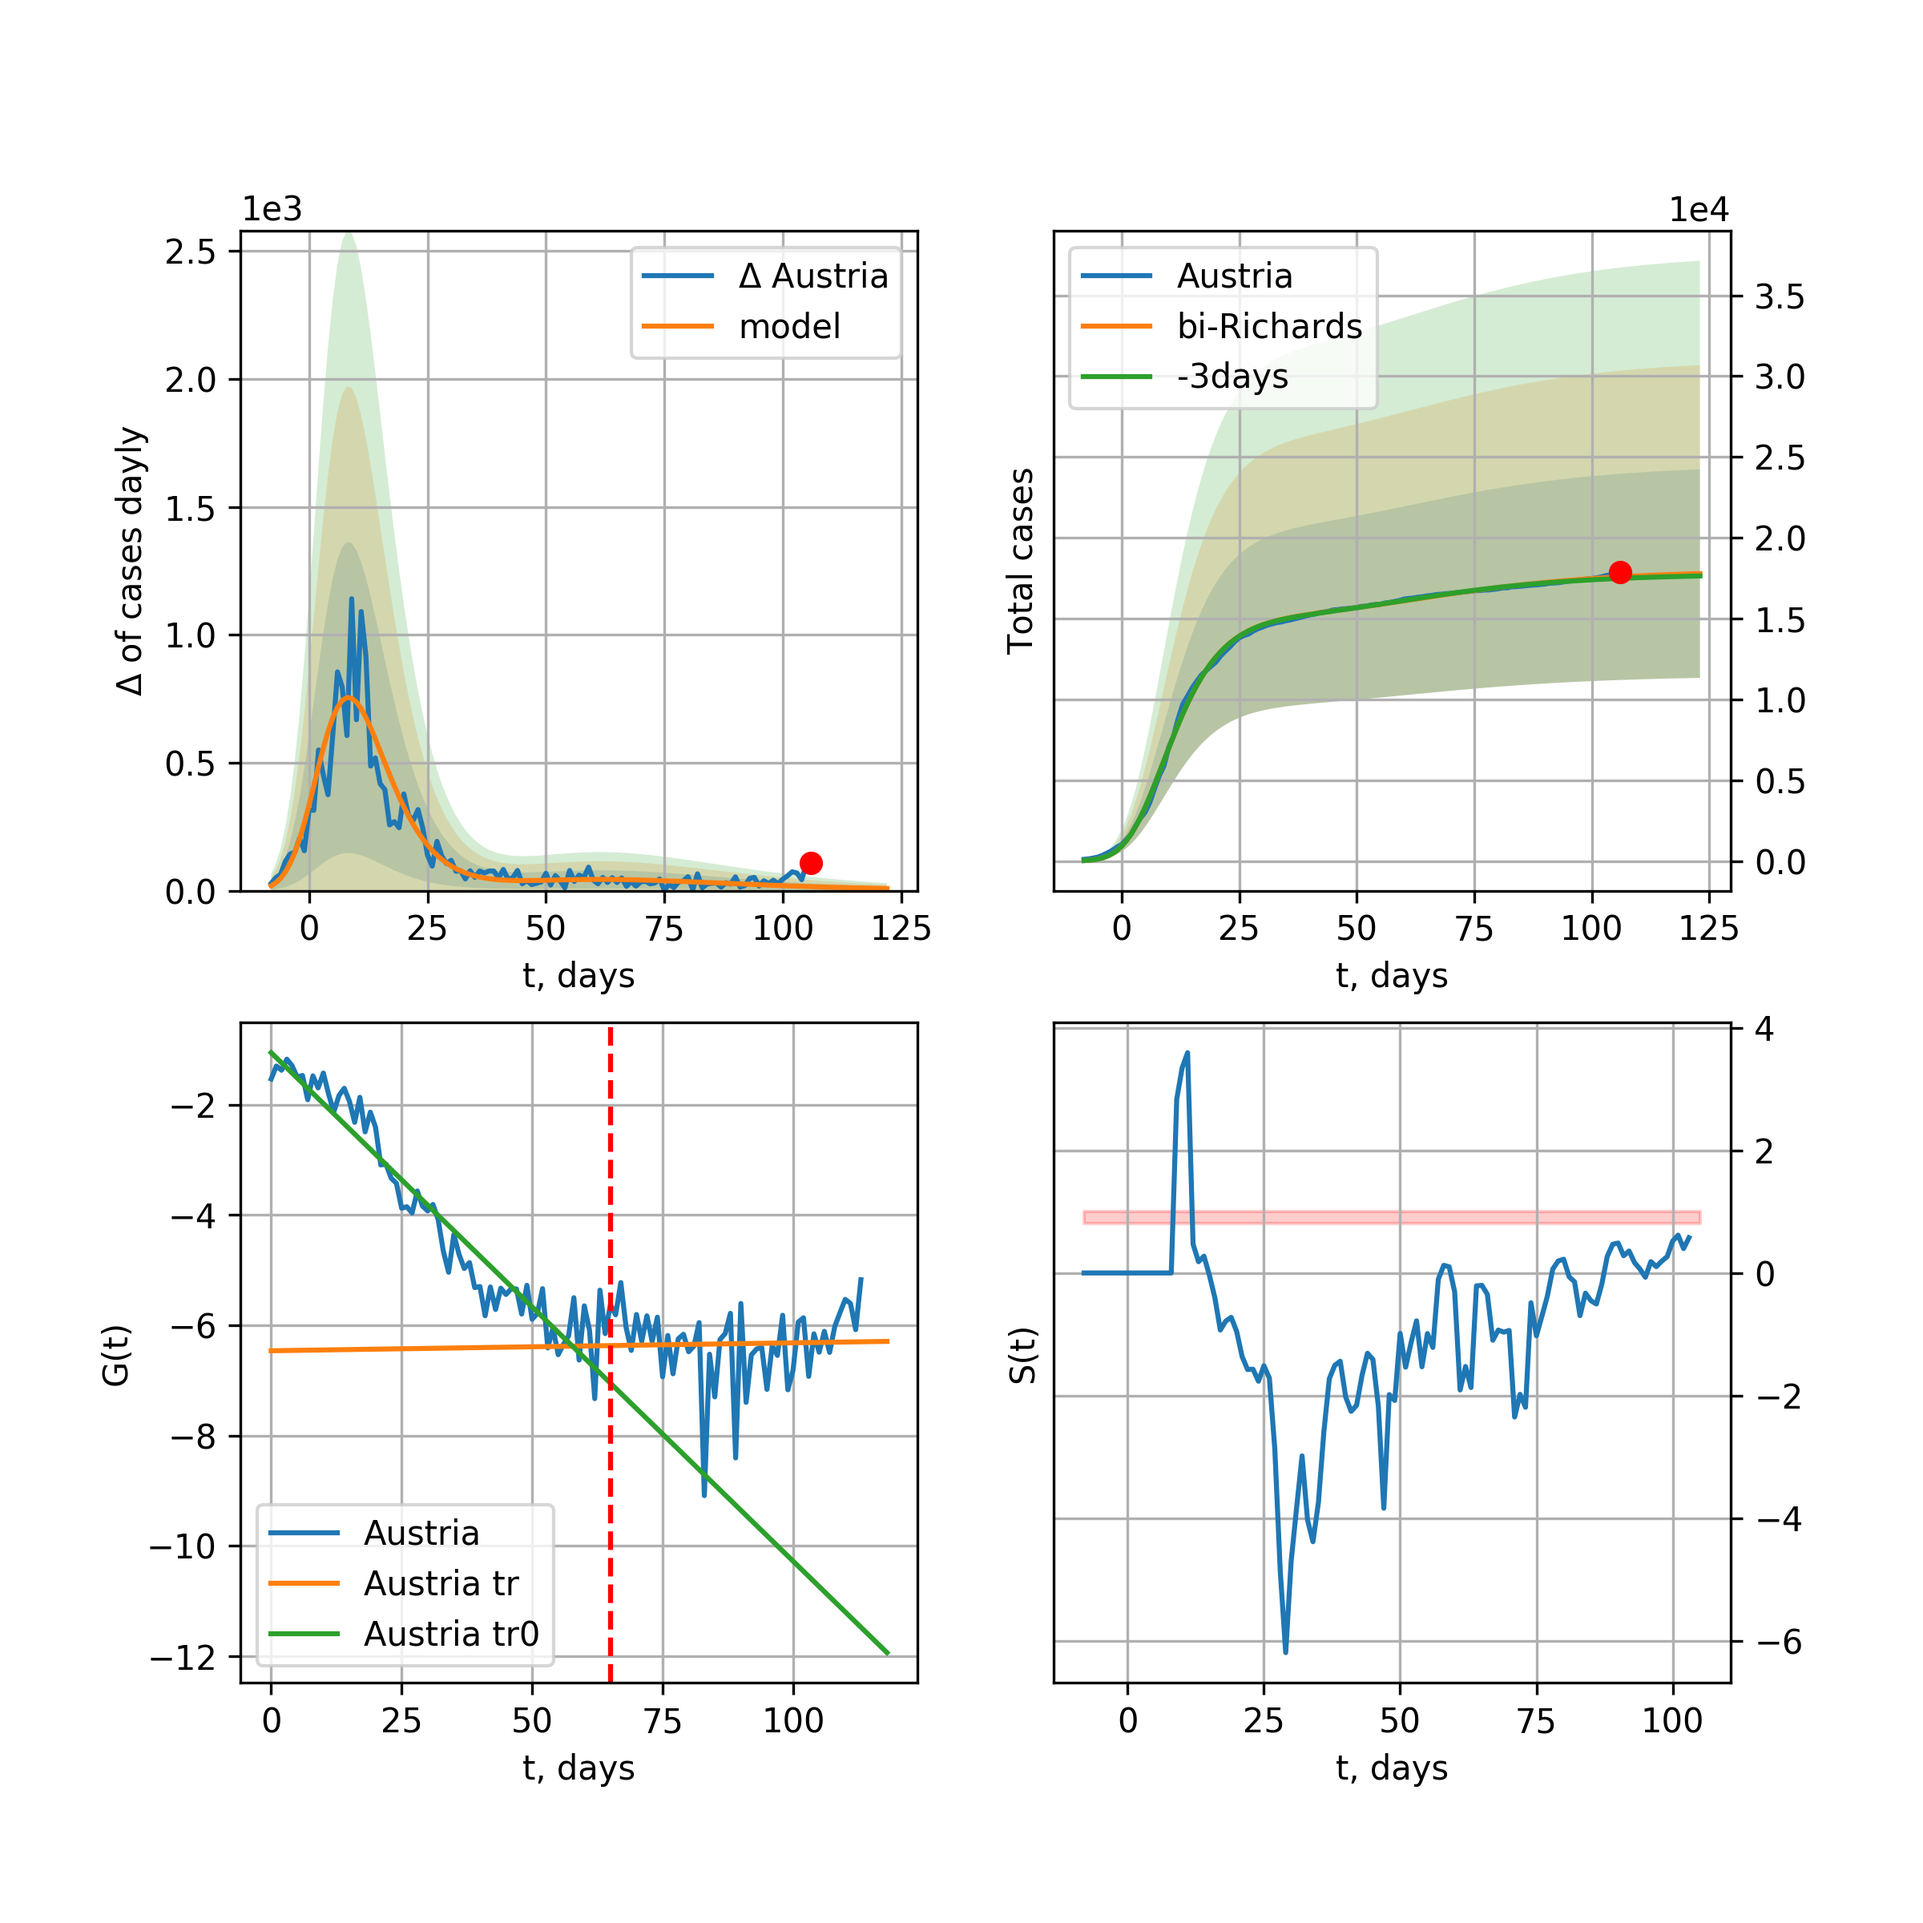
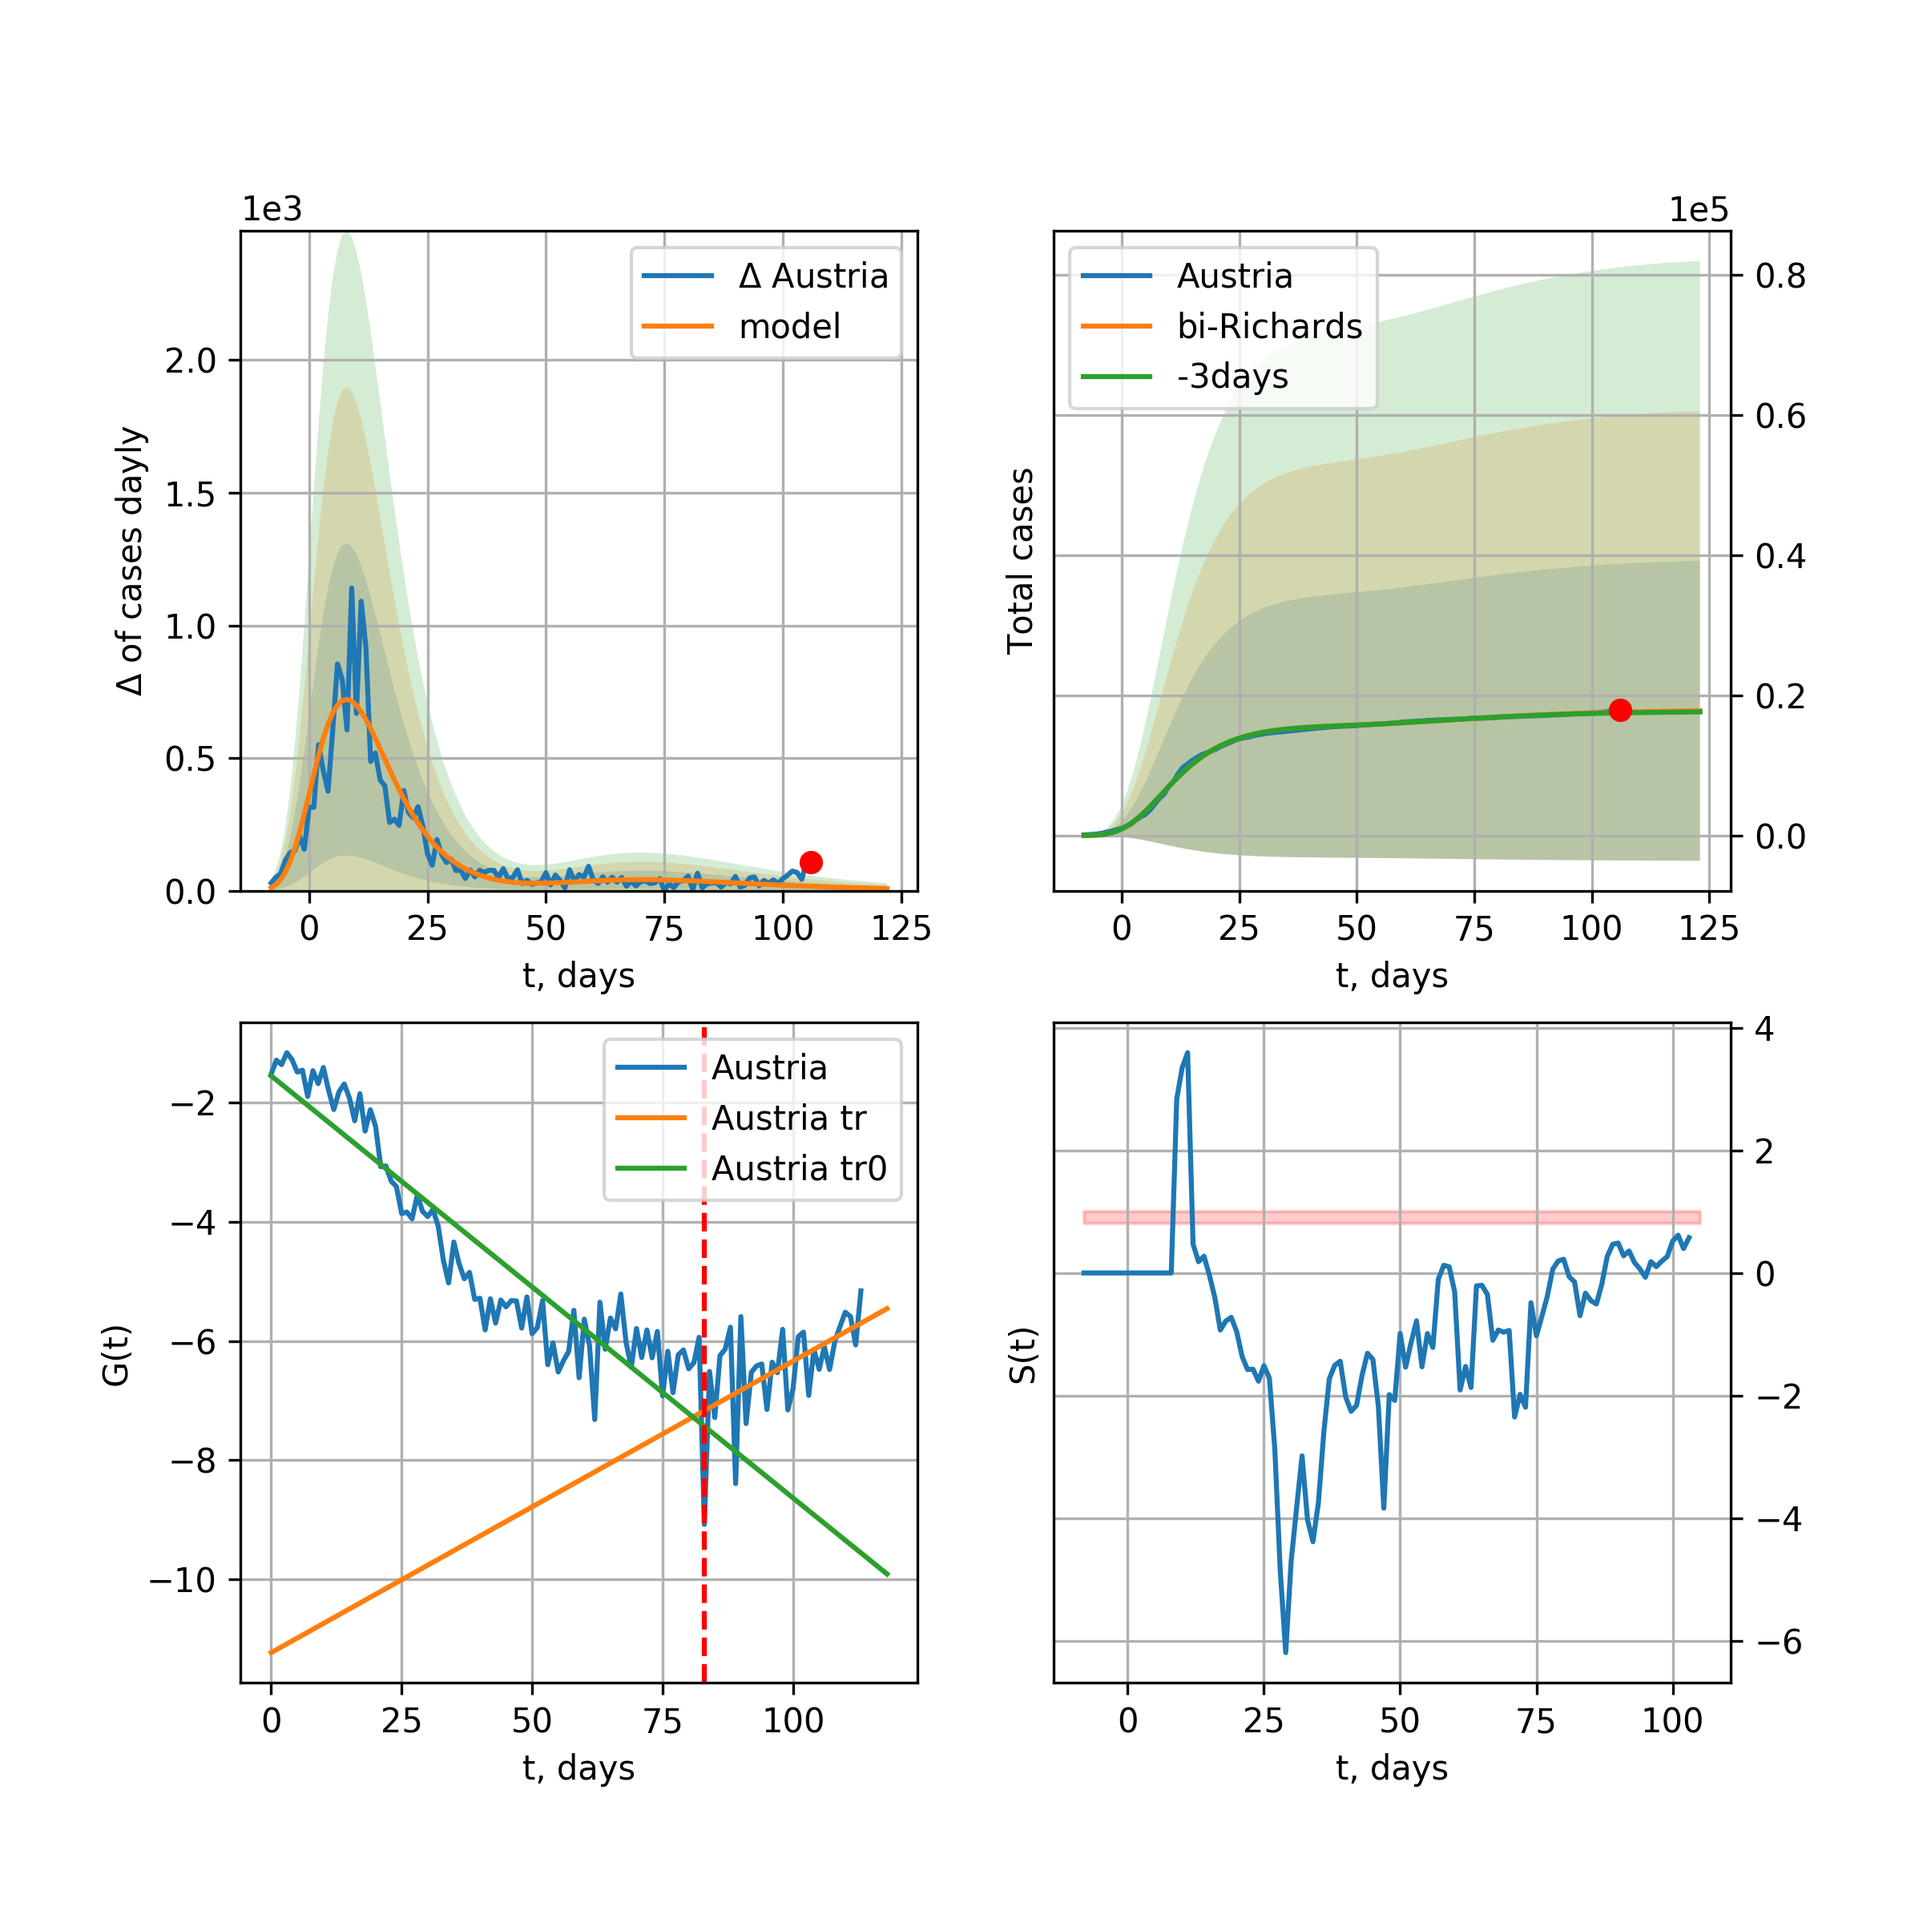
AT renew 2020-06-30

diff --git a/_site/index.html b/_site/index.html
@@ -694,20 +694,20 @@ trend coefficient of determination: 0.929110 <br />
     <img src="pictures/covidcasesAustria36_R.png" alt="hi" class="inline"/><br /> 
 
       Austria data at: 2020-07-01<br />
-+3 day model MAPE: 0.005618<br />
++3 day model MAPE: 0.006410<br />
 model: bi-Richards<br />
-coeffs: [ 2.74583751e+03  7.57393163e+00 -5.66016714e+01  5.68416840e-03]<br />
-rational stdev: 0.362848<br />
+coeffs: [ 2.23315919e+03  1.13531594e+01 -3.72790455e+01  4.39298300e-03]<br />
+rational stdev: 1.201354<br />
 forecast at the end of period: +17 days<br />
 	 deltaDaycases: 8<br />
-	 total cases: 17783 ± 6452<br />
-	 total death: 701 ± 763<br />
-bi-Richards approximation splitting point: 65<br />
-trend coefficient of determination: 0.933035 <br />
- intercept: -1.059965 <br />
- slope: -0.092139<br />trend coefficient of determination: 0.000830 <br />
- intercept: -6.461728 <br />
- slope: 0.001438<br />
+	 total cases: 17805 ± 21390<br />
+	 total death: 702 ± 2530<br />
+bi-Richards approximation splitting point: 83<br />
+trend coefficient of determination: 0.868034 <br />
+ intercept: -1.557620 <br />
+ slope: -0.070744<br />trend coefficient of determination: 0.291894 <br />
+ intercept: -11.223268 <br />
+ slope: 0.048850<br />
           <br /> 
     
     Belarus
